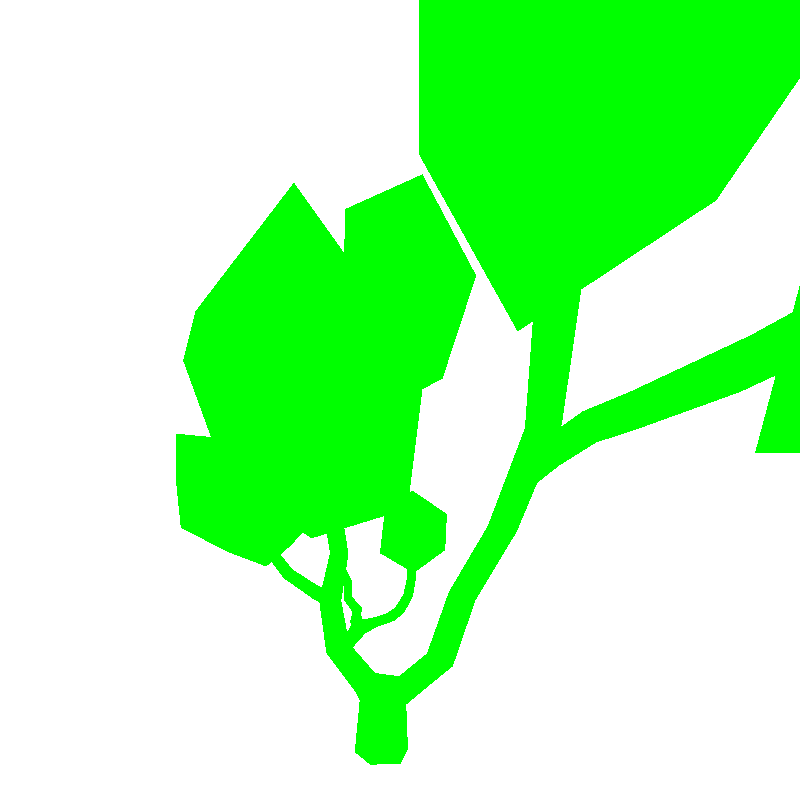
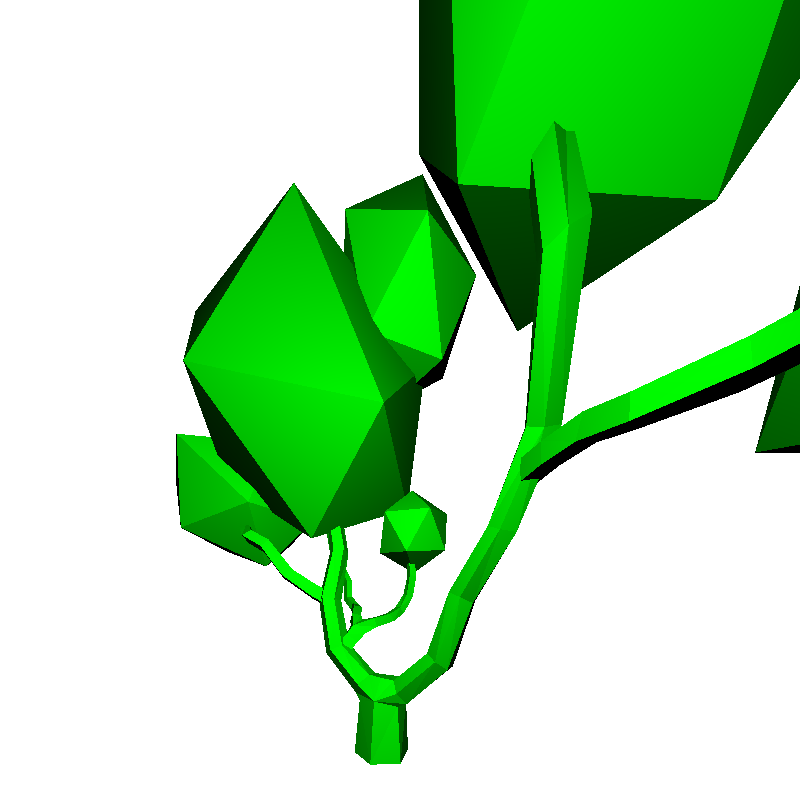
V-0.4

Changed region(s): [[0.2188, 0.0, 1.0, 0.9688]]

diff --git a/src/Main.java b/src/Main.java
@@ -1,4 +1,5 @@
 
+import clas.FlatShading;
 import clas.Intersection;
 import clas.Ray;
 import clas.Vector;
@@ -17,22 +18,23 @@ public class Main {
     public static void main(String[] args) throws IOException {
         Scene scene01 = new Scene(Color.WHITE);
         scene01.setCamera(new Camera(new Vector(0, 5, -10), 60, 60, 800,800));
+        scene01.setLigth(new FlatShading(new Vector(0,10,-10),new Vector(5,5,0),Color.white));
         scene01.addObject(new Sphere(new Vector(0.5, 1, 8), 0.8, Color.RED));
         scene01.addObject(new Sphere(new Vector(0.1, 1, 6), 0.5, Color.BLUE));
 
         // Aqui se crean dos triangulos y se agregan a una lista en el metodo
         // addObject se añade esta lista a la lista de objetos que ya tenia la ecena
 
-        scene01.addObject(new Model3D(new Vector(-1, -1, 3),// tengo que cambiar este valor por un metodo
-                Model3D.readerOBJ("Lowpoly_tree_sample.obj"),
-                /*
-                new Triangle[]{
-                        new Triangle(Vector.ZERO(), new Vector(1, 0, 0), new Vector(1,-1,0)),
-                        new Triangle(Vector.ZERO(), new Vector(1,-1,0), new Vector(0,-1,0))},
-                */
-                Color.GREEN));
+        scene01.addObject(new Model3D(new Vector(-1, -1, 3),
+                Model3D.readerOBJ("Lowpoly_tree_sample.obj"),Color.GREEN));
+        /*
+        new Triangle[]{
+                new Triangle(Vector.ZERO(), new Vector(1, 0, 0), new Vector(1,-1,0)),
+                new Triangle(Vector.ZERO(), new Vector(1,-1,0), new Vector(0,-1,0))},
+        */
 
-        BufferedImage image = raytrace(scene01);
+
+        BufferedImage image = raytrace(scene01); // aqui se encuentra el metodo para calcular el Diffuse del color
         File outputImage = new File("image.png");
         try {
             ImageIO.write(image, "png", outputImage);
@@ -46,21 +48,32 @@ public class Main {
         Camera mainCamera = scene.getCamera();
         BufferedImage image = new BufferedImage(mainCamera.getResolutionWidth(), mainCamera.getResolutionHeight(), BufferedImage.TYPE_INT_RGB);
         java.util.List<Object3D> objects = scene.getObjects();
-        Vector[][] posRaytrace = mainCamera.calculatePositionsToRay();
+        Vector[][] posRaytrace = mainCamera.calculatePositionsToRay(); //Grid de pixeles
         Vector pos = mainCamera.getPosition();
+
+        FlatShading ligth = scene.getLigth();
 
         for (int i = 0; i < posRaytrace.length; i++) {
             for (int j = 0; j < posRaytrace[i].length; j++) {
+                //posicion en x y z de cada pixel en el Grig
                 double x = posRaytrace[i][j].getX() + pos.getX();
                 double y = posRaytrace[i][j].getY() + pos.getY();
                 double z = posRaytrace[i][j].getZ() + pos.getZ();
 
                 Ray ray = new Ray(mainCamera.getPosition(), new Vector(x, y, z));
+                // en raycast se le dan el rayo y su direccion y la lista de objetos
+                // esto se repite por cada uno de los rayos para dalcular con que objeto
+                // choca el rayo
                 Intersection closestIntersection = raycast(ray, objects, null);
+
 
                 Color pixelColor = scene.getDefaultColor();
                 if (closestIntersection != null) {
-                    pixelColor = closestIntersection.getObject().getColor();
+                    //pixelColor = closestIntersection.getObject().getColor();
+
+                    //aqui cambiare el color original del objeto con el que chica el rayo.
+                    pixelColor = ligth.calculateDiffuse(closestIntersection);
+                    //se puede cambiar el color del poligono directmente dentro de calculateDiffuse
                 }
                 image.setRGB(i, j, pixelColor.getRGB());
             }

diff --git a/src/objects/Model3D.java b/src/objects/Model3D.java
@@ -52,7 +52,12 @@ public class Model3D extends Object3D {
                     (intersectionDistance < distance || distance < 0)){
                 distance = intersectionDistance;
                 position = Vector.add(ray.getOrigin(), Vector.scalarMultiplication(ray.getDirection(), distance));
-                normal = triangle.getNormal();
+
+                Vector[] vertex = triangle.getVertices();
+                Vector v = Vector.substract(vertex[1],vertex[0]);
+                Vector w = Vector.substract(vertex[0],vertex[2]);
+                //normal = triangle.getNormal();
+                normal = Vector.normalize(Vector.crossProduct(v,w));
             }
         }
 
@@ -135,11 +140,11 @@ public class Model3D extends Object3D {
 
         for (int[] triangle : caras){
             if (triangle.length > 3){ // verifica si una cara tiene 3 o 4 vertices.
-                temporalList.add(new Triangle(vectors.get(triangle[0]),vectors.get(triangle[1]),vectors.get(triangle[2])));
-                temporalList.add(new Triangle(vectors.get(triangle[0]),vectors.get(triangle[2]),vectors.get(triangle[3])));
+                temporalList.add(new Triangle(vectors.get(triangle[1]),vectors.get(triangle[0]),vectors.get(triangle[2])));
+                temporalList.add(new Triangle(vectors.get(triangle[2]),vectors.get(triangle[0]),vectors.get(triangle[3])));
                 //System.out.println("Vertices="+triangle.length+" "+triangle[0]+" "+triangle[1]+" "+triangle[2]+" "+triangle[3]);
             }else {
-                temporalList.add(new Triangle(vectors.get(triangle[0]),vectors.get(triangle[1]),vectors.get(triangle[2])));
+                temporalList.add(new Triangle(vectors.get(triangle[1]),vectors.get(triangle[0]),vectors.get(triangle[2])));
                 //System.out.println("Vertices="+triangle.length+" "+triangle[0]+" "+triangle[1]+" "+triangle[2]);
             }
         }

diff --git a/src/clas/FlatShading.java b/src/clas/FlatShading.java
@@ -1,0 +1,48 @@
+package clas;
+
+import objects.Object3D;
+
+import java.awt.*;
+
+public class FlatShading {
+    private Color ligthColor;
+    private Vector position;
+    private Vector direction;
+
+    public FlatShading(Vector position, Vector direction, Color ligthColor){
+        this. position = position;
+        this. direction = direction;
+        this. ligthColor = ligthColor;
+    }
+
+    public Vector getPosition() {
+        return position;
+    }
+
+    public void setPosition(Vector position) {
+        this.position = position;
+    }
+
+    public Color calculateDiffuse(Intersection intersection){
+
+        Vector L = Vector.normalize(
+                Vector.substract(this.getPosition(), intersection.getPosition())
+        );
+
+        double intensity = Vector.dotProduct(intersection.getNormal(), L);
+        intensity = Math.max(0, intensity);
+
+        Color base = intersection.getObject().getColor();
+
+        int r = (int)(base.getRed() * intensity);
+        int g = (int)(base.getGreen() * intensity);
+        int b = (int)(base.getBlue() * intensity);
+
+        return new Color(
+                Math.min(255, r),
+                Math.min(255, g),
+                Math.min(255, b)
+        );
+    }
+
+}

diff --git a/src/Scene.java b/src/Scene.java
@@ -1,4 +1,5 @@
 
+import clas.FlatShading;
 import objects.Camera;
 import objects.Object3D;
 
@@ -10,6 +11,7 @@ import java.util.List;
 public class Scene {
     Camera camera;
     java.util.List<Object3D> objects;
+    FlatShading ligth;
     Color defaultColor;
 
     public Scene(Color defaultColor) {
@@ -46,5 +48,13 @@ public class Scene {
 
     public void setObjects(List<Object3D> objects) {
         this.objects = objects;
+    }
+
+    public FlatShading getLigth() {
+        return ligth;
+    }
+
+    public void setLigth(FlatShading ligth) {
+        this.ligth = ligth;
     }
 }

diff --git a/src/objects/Object3D.java b/src/objects/Object3D.java
@@ -1,5 +1,6 @@
 package objects;
 
+import clas.FlatShading;
 import clas.Intersection;
 import clas.Ray;
 import clas.Vector;
@@ -18,6 +19,11 @@ public abstract class Object3D {
     public Color getColor() {
         return color;
     }
+
+    public void setColor(Color color) {
+        this.color = color;
+    }
+
     public Vector getPosition() {
         return position;
     }
@@ -27,5 +33,7 @@ public abstract class Object3D {
     }
 
     public abstract Intersection getIntersection(Ray ray);
+
+    //public abstract Color calculateDiffuce(FlatShading light);
 
 }

diff --git a/src/objects/Triangle.java b/src/objects/Triangle.java
@@ -30,6 +30,7 @@ public class Triangle implements Interface {
     }
 
     public Vector getNormal(){
+        //return new Vector(1,1,1);
         return Vector.ZERO();
     }
 

diff --git a/src/objects/Camera.java b/src/objects/Camera.java
@@ -1,5 +1,6 @@
 package objects;
 
+import clas.FlatShading;
 import clas.Intersection;
 import clas.Ray;
 import clas.Vector;
